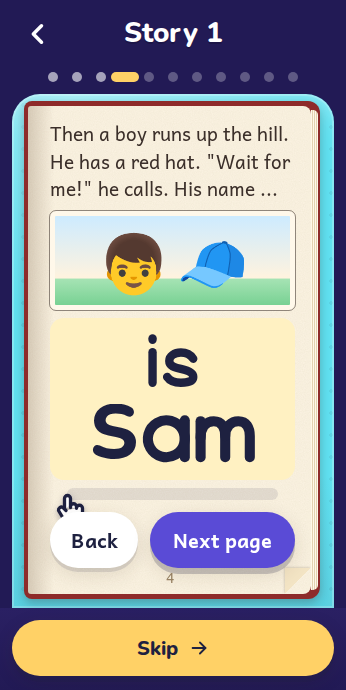
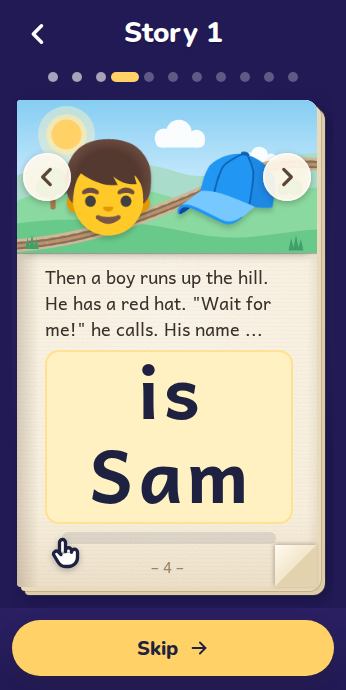
WIP review fit, tests

diff --git a/js/screens/book.js b/js/screens/book.js
@@ -265,6 +265,8 @@ export function bookBuild({ checkpoint, book, store, refresh, setProgress, setDo
       const caps = box ? [cap0, ...CAPS.filter((k) => k < cap0)] : [cap0];
       const artWant = art && !sheet.classList.contains('kind-review') ? Math.min(150, sheet.clientHeight * 0.28) : 0;
       const fits = () => sheet.scrollHeight <= sheet.clientHeight + 0.5 && (!box || box.getBoundingClientRect().width <= sheet.clientWidth) && (!art || art.offsetHeight >= artWant);
+      const tiles = sheet.querySelector('.book-tiles');
+      if (tiles) { tiles.classList.remove('is-tight'); sheet.style.removeProperty('--art-min'); if (!fits()) { tiles.classList.add('is-tight'); sheet.style.setProperty('--art-min', '40px'); } }
       for (let step = 0; step < 16; step++) {
         if (box) box.style.setProperty('--cap', caps[Math.min(step, caps.length - 1)] + 'px');
         if (rd) sheet.style.setProperty('--read-fs', Math.max(16, fs0 - Math.floor(step / 2)) + 'px');

diff --git a/css/app.css b/css/app.css
@@ -954,6 +954,8 @@ button img, .word-tile img, .pic-frame img { pointer-events: none; -webkit-user-
 .book-tile { flex: 0 0 auto; min-width: 104px; min-height: 84px; display: grid; place-items: center; padding: 8px 14px; border: 0; border-radius: 16px; background: #fff; box-shadow: 0 2px 0 rgba(59,47,42,.18), inset 0 0 0 2px rgba(59,47,42,.12); color: var(--ink); touch-action: manipulation; --tile-cap: 56px; }
 .book-tile .glyph-row { width: auto; padding: 0; }
 .book-tile.lit { background: #FFE9A8; box-shadow: inset 0 0 0 4px #FFD166, 0 2px 0 rgba(59,47,42,.18); }
+.book-tiles.is-tight { gap: 6px; }
+.book-tiles.is-tight .book-tile, .book-tiles.is-many.is-tight .book-tile { min-height: 52px; padding: 4px 8px; --tile-cap: 32px; }
 .book-tiles.is-many { gap: 8px; }
 .book-tiles.is-many .book-tile { min-width: 84px; min-height: 64px; padding: 6px 10px; --tile-cap: 40px; }
 
